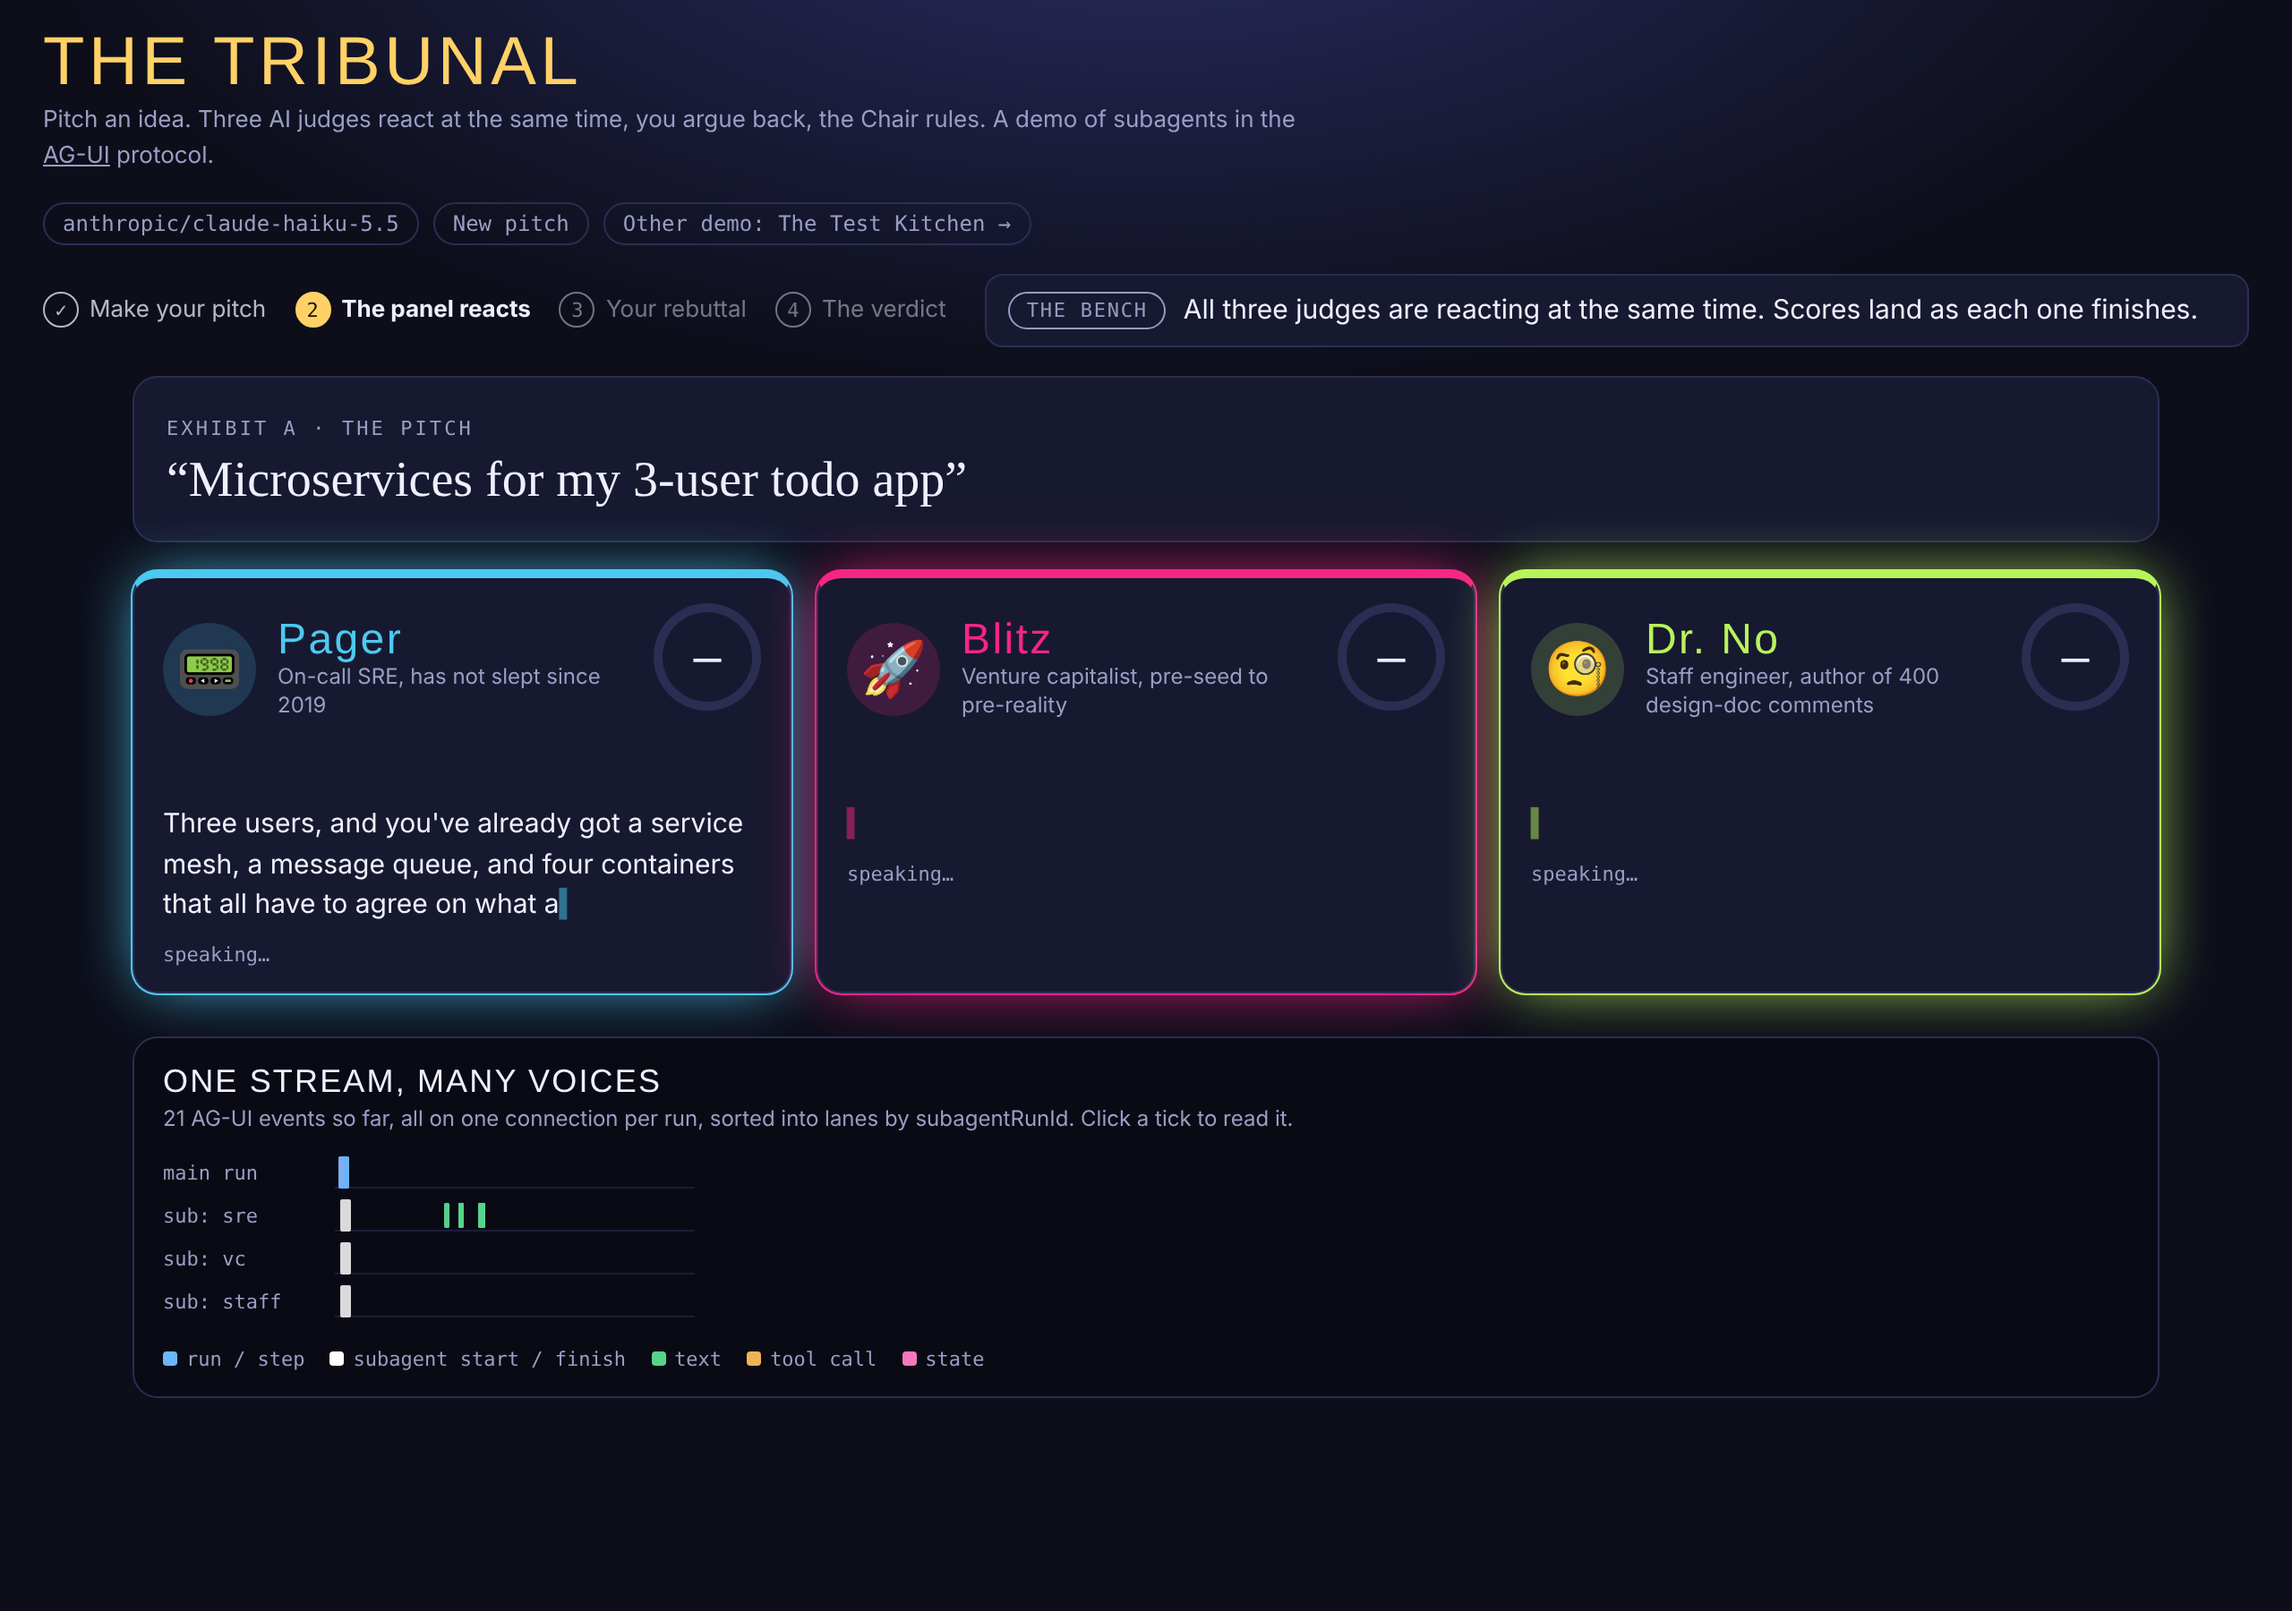
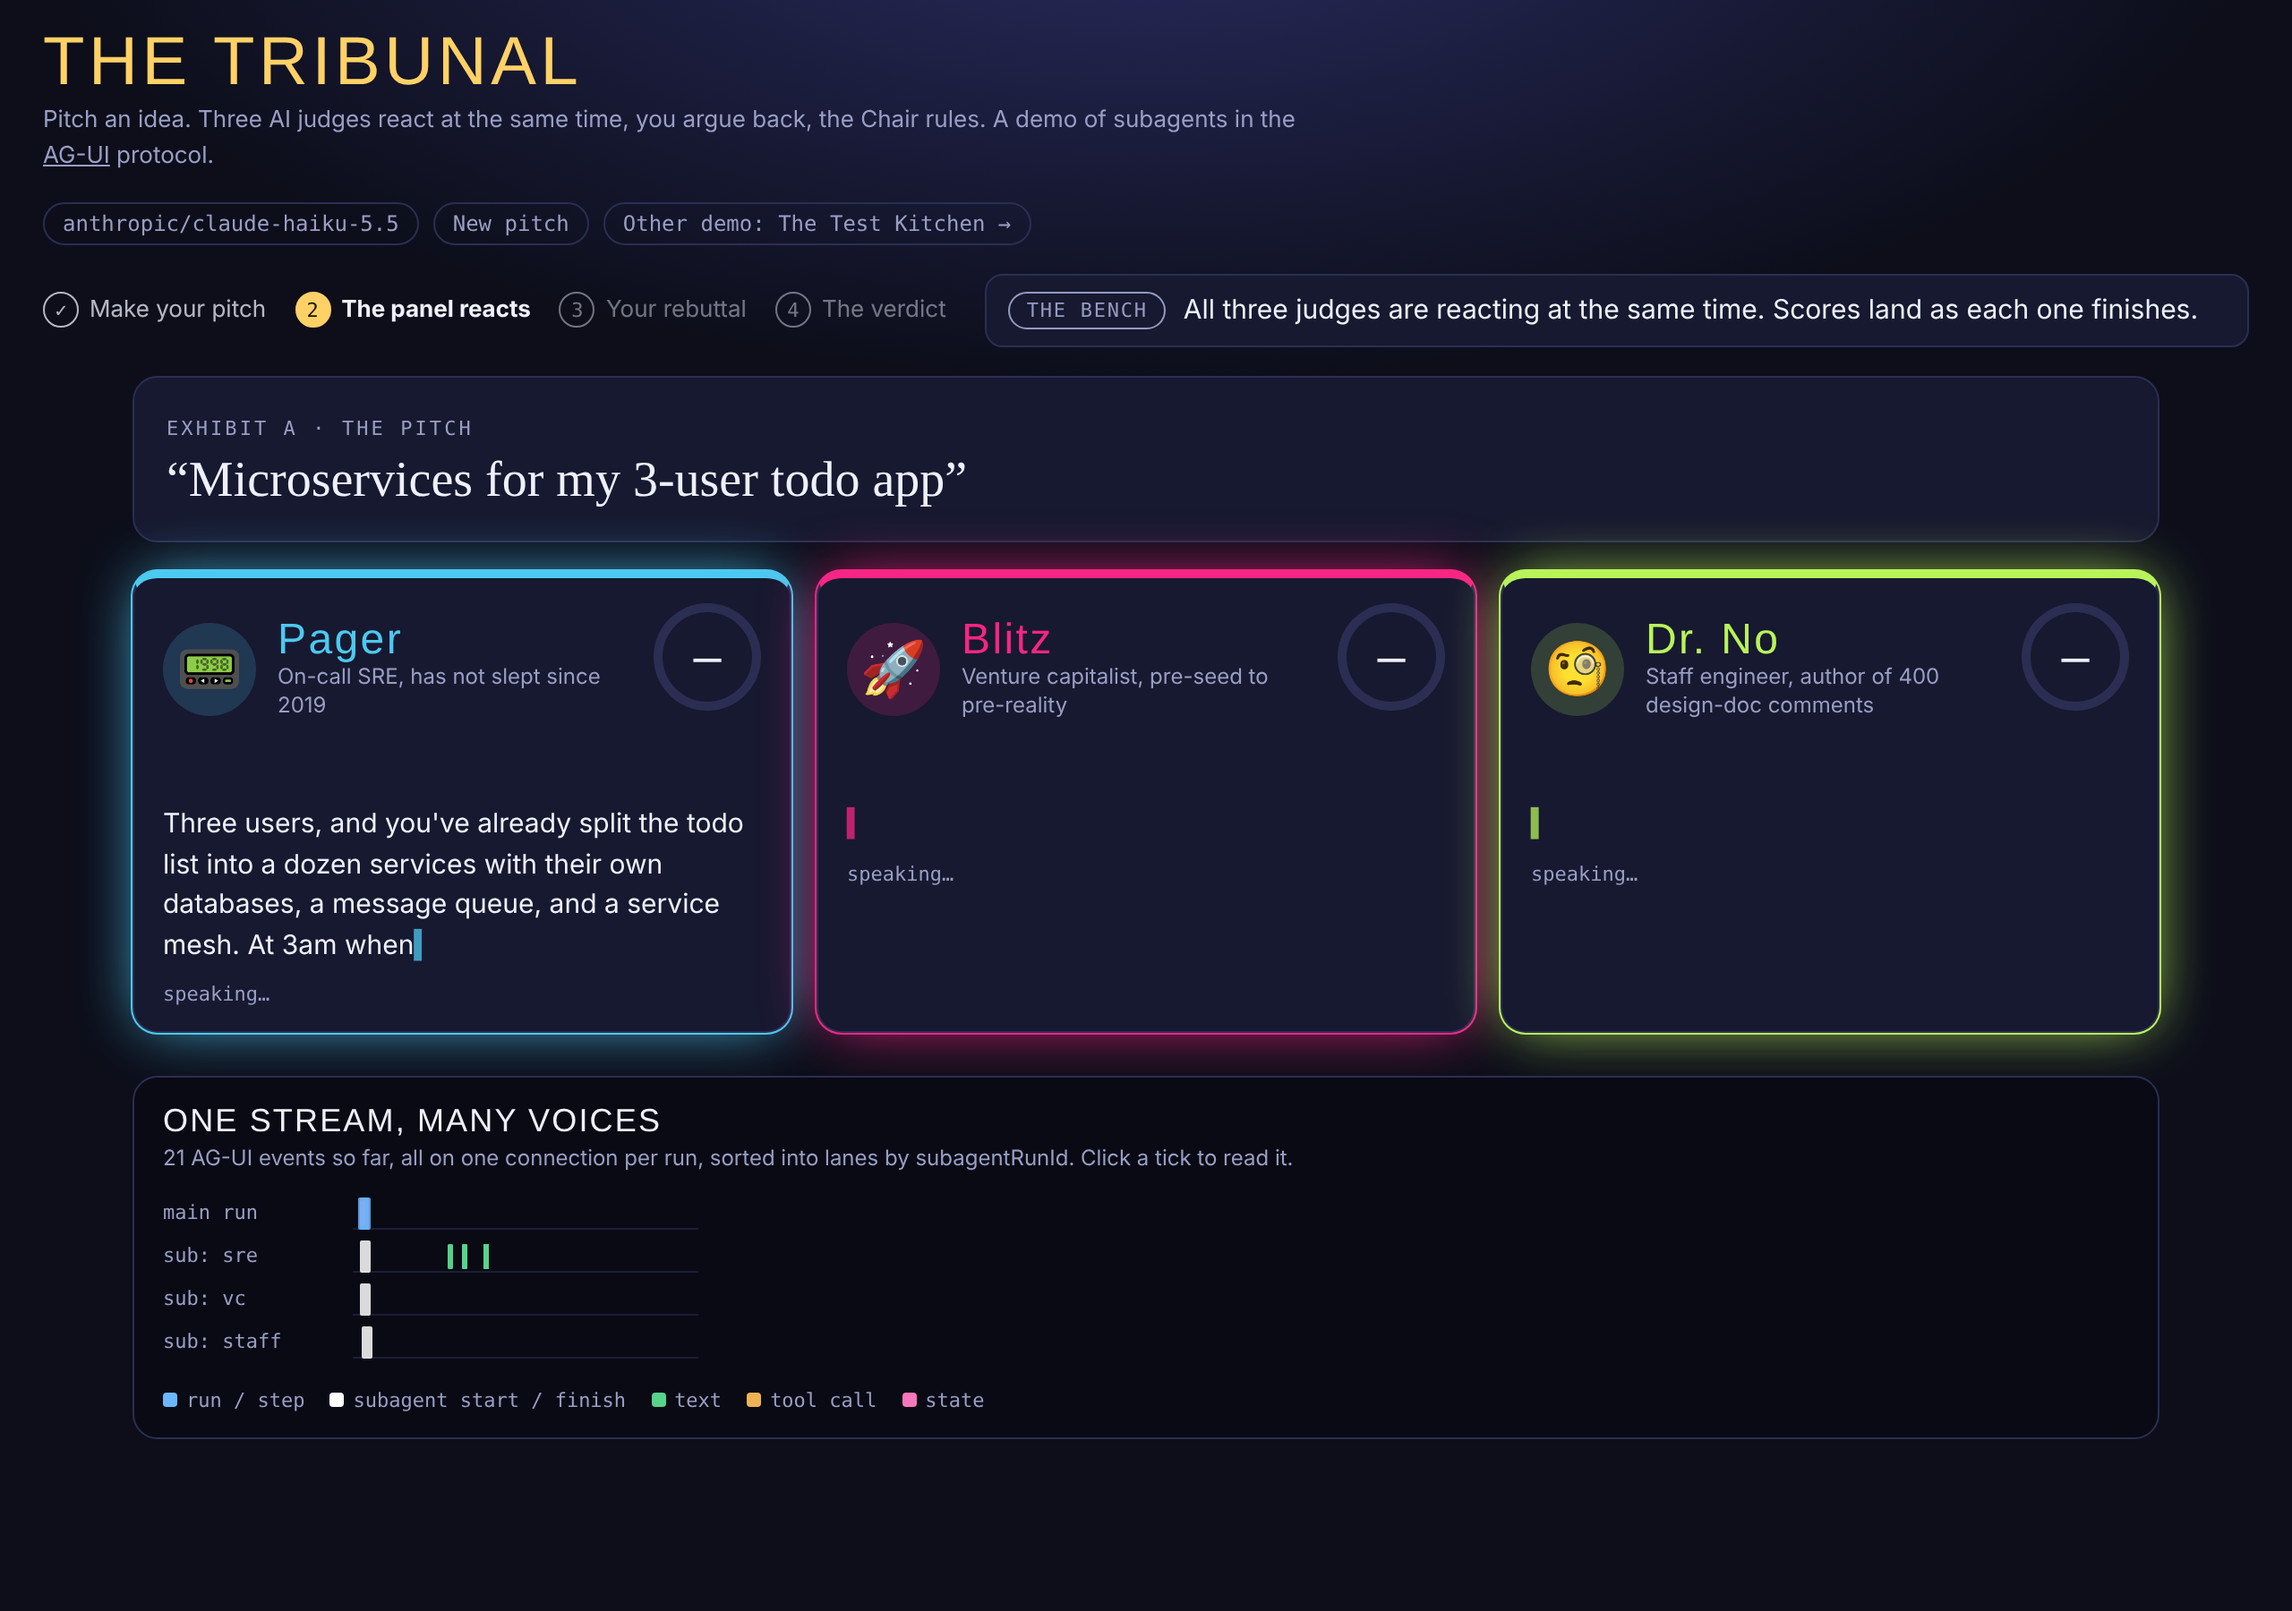
Keep Tribunal lane labels clear of the first ticks
Claude-Session: https://claude.ai/code/session_01PgG849zBRgBPev5vDMJSS6

Changed region(s): [[0.0312, 0.4978, 0.9688, 0.8711]]

diff --git a/src/tribunal/style.css b/src/tribunal/style.css
@@ -135,8 +135,8 @@ textarea { width: 100%; min-height: 70px; resize: vertical; display: block; marg
 .lanes { overflow-x: auto; padding-bottom: 6px; position: relative; }
 .lanes:empty::before { content: "Nothing on the wire yet."; color: #555a85; font: 12px var(--mono); }
 .lane { display: flex; align-items: center; height: 24px; }
-.lane-name { position: sticky; left: 0; z-index: 1; flex: none; width: 96px; font: 11px var(--mono); color: var(--muted); background: #090a14; }
-.lane-track { position: relative; height: 18px; flex: none; border-bottom: 1px solid #1b1d38; }
+.lane-name { position: sticky; left: 0; z-index: 2; flex: none; width: 96px; height: 100%; display: flex; align-items: center; font: 11px var(--mono); color: var(--muted); background: #090a14; }
+.lane-track { position: relative; margin-left: 10px; height: 18px; flex: none; border-bottom: 1px solid #1b1d38; }
 .tick { position: absolute; top: 2px; width: 3px; height: 14px; border-radius: 1px; background: var(--k, #777); cursor: pointer; opacity: 0.85; }
 .tick:hover, .tick.sel { outline: 2px solid #fff; z-index: 1; opacity: 1; }
 .tick.big { width: 6px; top: 0; height: 18px; }
